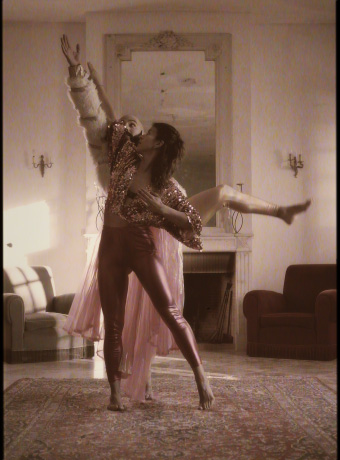
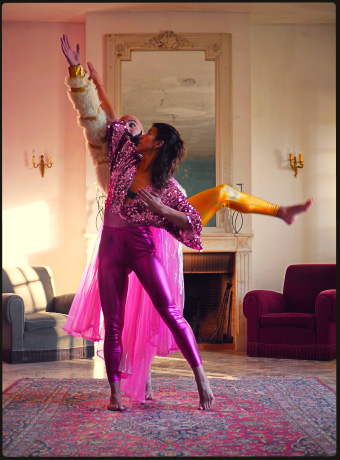
image 46

diff --git a/video-grid.js b/video-grid.js
@@ -2,7 +2,7 @@ const NB_COLUMNS = 8;
 const NB_ROWS = 3;
 var NB_IMAGES = NB_ROWS * NB_COLUMNS;
 const INTERVAL_MS = 100;
-const colorful_images_numbers = [91, 118, 214, 252, 280]
+const colorful_images_numbers = [46, 91, 118, 214, 252, 280]
 const message_types = ['congratulations']
 var isPlaying = false;
 /*
